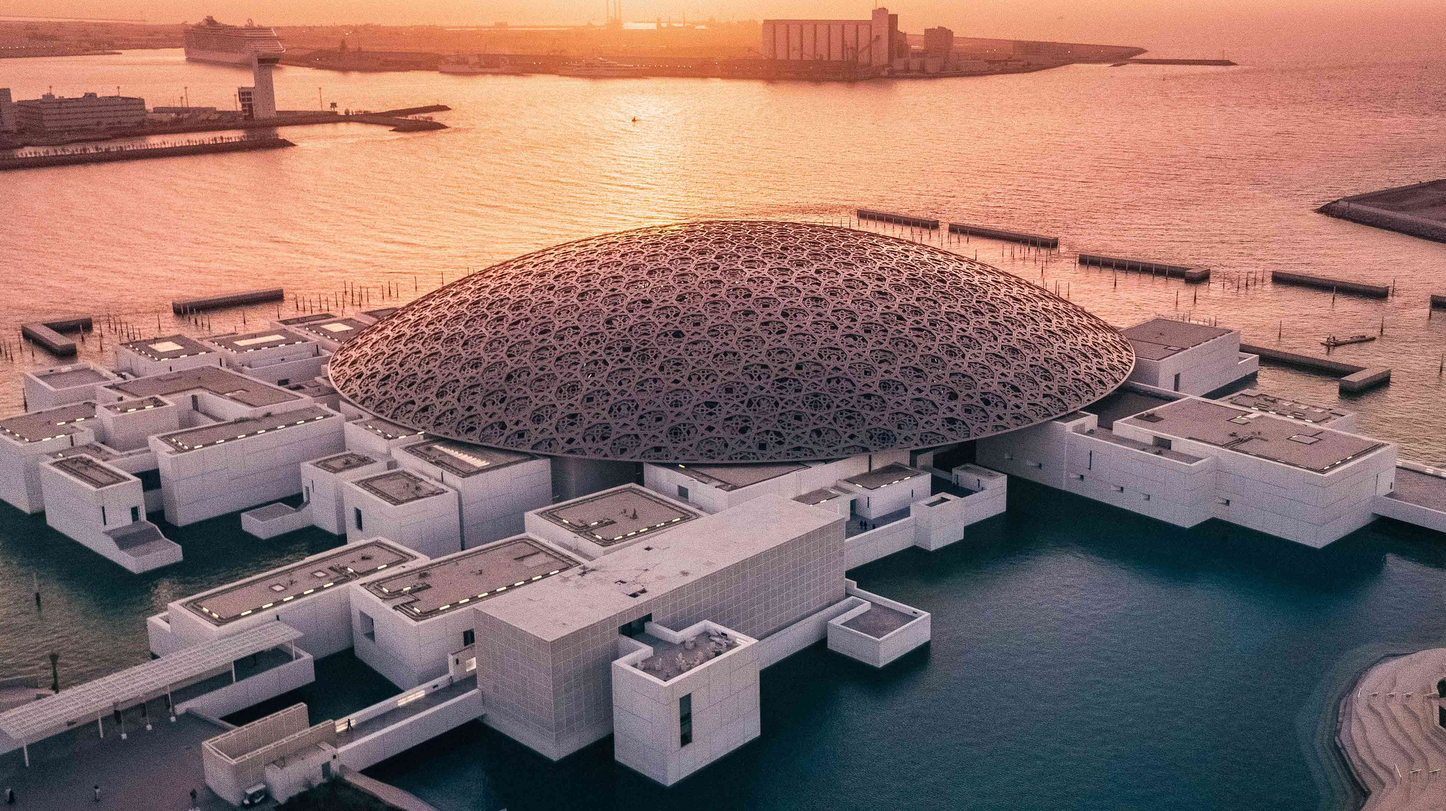
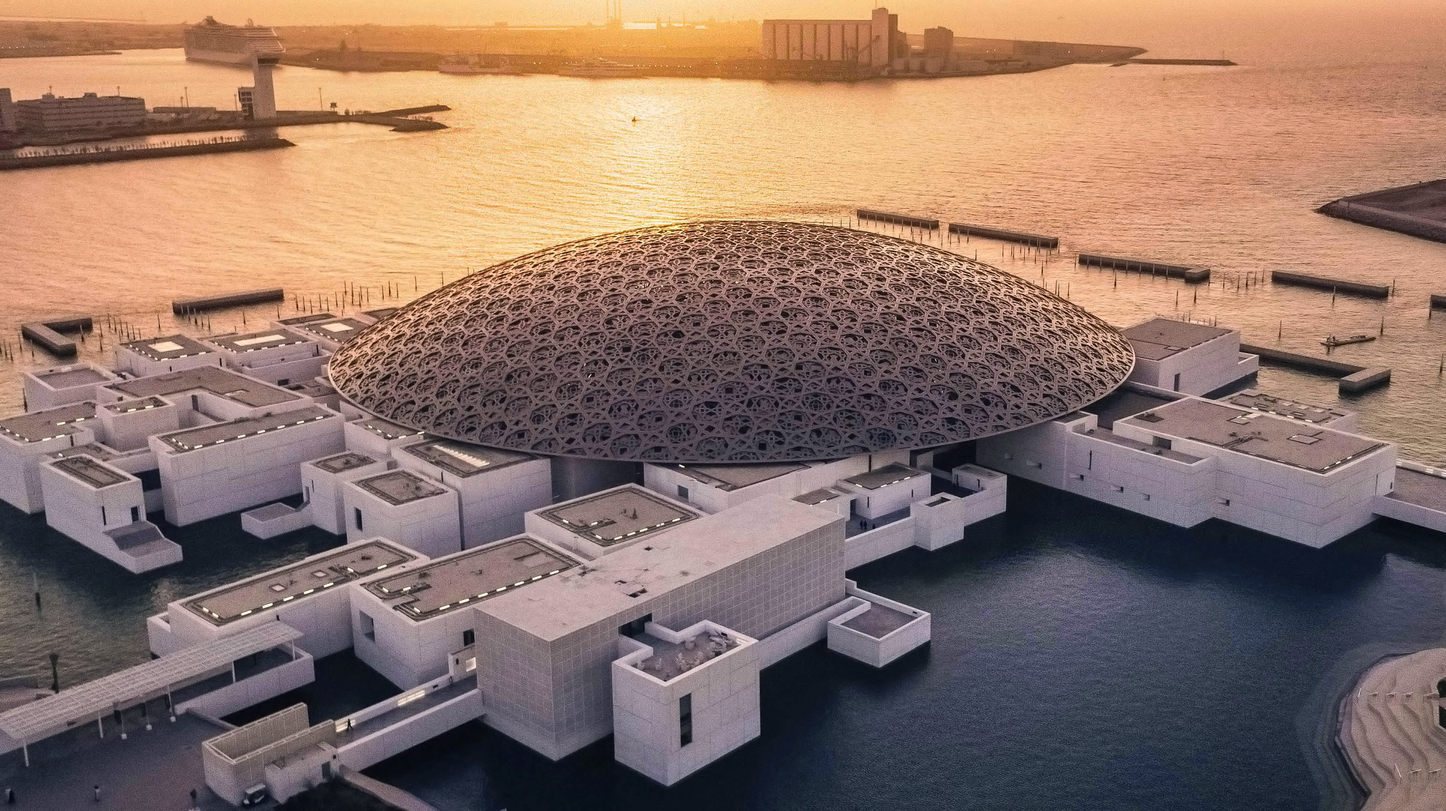
more interactive home, updated about, changed louvre img, added exiting img feature, set no audio for imgs without, changed nyu img, worked on styling

diff --git a/index.html b/index.html
@@ -31,30 +31,47 @@
     <div class="about">
         <div class="about-description">
             <h1> About</h1>
-            <p> For the final project, we aim to create an online interactive experience exploring how Khaleeji heritage
-                is presented across various locations on Saadiyat Island. We will be building a website from scratch
-                that exhibits Khaleeji heritage at the following locations: Manarat Al Saadiyat, Louvre Abu Dhabi, and
-                NYU Abu Dhabi. The goal of this project is to depict the essence of ethnography for users by taking them
-                on a journey that provides them with the chance to see and hear aspects that represent Khaleeji
-                heritage, allowing them to take part in the cultural experience regardless of geographical boundaries.
-                The website’s purpose is not to be a form of a virtual exhibition but to share our own narratives by
+            <p> This is an online interactive experience exploring how Khaleeji heritage is presented across various
+                locations on Saadiyat Island in Abu Dhabi, UAE. This website is built from scratch and it exhibits
+                Khaleeji heritage at the following locations: Manarat Al Saadiyat, Louvre Abu Dhabi, and NYU Abu Dhabi.
+                The goal of this project is to depict the essence of ethnography for users by taking them on a
+                mesmerizing journey that provides them with the chance to see and hear for themselves aspects that
+                represent Khaleeji heritage in its raw form. It allows them to take part in the amazing cultural
+                experience of Khaleeji heritage regardless of geographical boundaries. The website’s purpose is not to
+                be a form of a virtual exhibition of the Khaleeji heritage on its own but to share our own narratives by
                 portraying what we heard and saw. The creation of the website and the works displayed are based on
-                ethnographic research conducted by Alia and Umair and are specific to May-June 2022 as some of the shown
-                aspects were specifically exhibited during this period. </p>
-            <p>The landing page of the website will display a map of Saadiyat Island with the specific locations that
-                could be explored alongside a small introduction and instructions on how to navigate the page. Depending
-                on the users’ choice when clicking on the map, they will be redirected to a page with the respective
-                location and works representing Khaleeji heritage. In Manarat Al Saadiyat, the user would first be
-                presented with a bird view map of the rooms in the “Zemanna Exhibition” that allows for the visual
-                exploration of memories from the 1990s in the UAE based on the artists’ interpretations. The user could
-                then click on the room that they want to explore and would be presented with an image that they could
-                hover over if they choose to listen to the audio of the installation. In Louvre Abu Dhabi, the user
-                would be presented with different artifacts representing the Gulf heritage. They can then click on these
-                artifacts to be shown an overlay image with its respective description. In the NYU Abu Dhabi location,
-                the user would be presented with a carousel view of various videos and pictures taken during class time
-                which cover Khaleeji music and instruments that we have learned. It could also include recorded
-                interviews of the professor, students, or guests that are willing to partake in our Khaleeji Heritage
-                exploration. </p>
+                ethnographic research conducted by Alia Waleed and Umair Shah and are specific to May-June 2022 as some
+                of the shown aspects were specifically exhibited during this period.
+            </p>
+            <p>The motivation for this artwork stems from our own lack of knowledge of the Khaleeji heritage prior to
+                taking this course. Although we are living in the UAE, we were hardly aware of places that represented
+                the Khaleeji heritage. Through the duration of this course, we became acquainted with numerous sources
+                and representations of Khaleeji heritage on Saadiyat Island itself, and so we realized that the
+                treasures of Khaleeji heritage are not as far from us as we assumed them to be rather they are merely
+                under-explored. Driven by the motive to make Khaleeji heritage more accessible and apparent in the
+                cultural paradigm, we created this audio-visual website. The purpose of this website, as stated above,
+                is to make the Khaleeji heritage more accessible to others by sharing our own experiences.
+            </p>
+            <p>
+                Throughout the duration of our course, “Engaging Khaleeji Musical Heritage: An Introduction to Applied
+                Ethnomusicology”, we not only read engaging texts pertinent to ethnography, Khaleeji music, and
+                heritage, but we also had the luxury of visiting esteemed places like the Louvre Abu Dhabi to experience
+                this heritage on our own, leaving room for interpretations as we did not have a tour guide. Therefore,
+                we believe that it would be beneficial if we convey a more holistic and sensory experience to our
+                audience as well. Using an audio-visual approach on the website helps us make the experience of
+                interacting with the Khaleeji heritage more immersive and inspirational as the audience is exposed to
+                multiple stimuli as opposed to only being exposed to one stimulus [for example, as opposed to merely
+                just reading about the heritage].
+
+            </p>
+            <p>
+                As we previously mentioned, the website does not serve as a virtual exhibition rather it is the
+                depiction of the Khaleeji heritage through our lens. All the videos and audio media on the website are
+                taken directly by us and therefore represent our perspective of the Khaleeji heritage experience i.e.
+                what we saw and what we heard. This opens the floor to interpretation as the audience can then
+                experience the heritage through our lens yet form their backgrounds and perspectives of their own.
+
+            </p>
         </div>
     </div>
 

diff --git a/manarat/script.js b/manarat/script.js
@@ -2,32 +2,53 @@ let overlay;
 
 window.addEventListener("load", () => {
     overlay = document.getElementById("overlay");
+
+    document.getElementById('overlay').onclick = function (e) {
+        if (e.target != document.getElementById('card') && e.target != document.getElementById('art-image')) {
+            back();
+        } else {
+            console.log('You clicked inside');
+        }
+    }
 })
 
-function goHome(){
+function goHome() {
     window.location = '/index.html';
 }
 
-function display(piece){
+function display(piece) {
+    console.log(piece);
+    let instructions = document.getElementById("instructions");
+    if (piece == "fwalat" || piece == "volcano") {
+        instructions.textContent = "No audio for this image!";
+    }
+    else {
+        instructions.textContent = "Hover over the image to play audio!";
+    }
     overlay.style.display = "block";
     let image = document.getElementById("art-image");
     image.className = piece;
     image.src = "/manarat/images/" + piece + ".png";
-    console.log(piece);
 }
 
-function back(){
+function back() {
     overlay.style.display = "none";
 }
 
 let audio;
 
-function playAudio(playing){
-    audio = new Audio("/manarat/audios/" + playing + ".mp3"); 
-    audio.play();
+function playAudio(playing) {
+    console.log("here", playing)
+    if (playing == "fwalat" || playing == "volcano") {
+        console.log("no audio");
+    }
+    else {
+        audio = new Audio("/manarat/audios/" + playing + ".mp3");
+        audio.play();
+    }
 }
 
-function stopAudio(playing){
+function stopAudio(playing) {
     console.log("stopped");
     audio.pause();
 }

diff --git a/style.css b/style.css
@@ -16,6 +16,11 @@ body {
     height: 100%;
     position: absolute;
     z-index: 1;
+    filter: grayscale(100%);
+}
+
+.background-container img:hover {
+    filter: none;
 }
 
 .about {
@@ -24,7 +29,7 @@ body {
 
 .about-button {
     position: absolute;
-    top: 90vh;
+    top: 88vh;
     right: 5vw;
     z-index: 5;
     background-color: rgb(151, 121, 68);
@@ -54,7 +59,8 @@ body {
     position: absolute;
 }
 
-.description, .about {
+.description,
+.about {
     left: 50%;
     top: 0;
     position: absolute;
@@ -90,7 +96,8 @@ body {
     padding-top: 5%;
 }
 
-p,li {
+p,
+li {
     color: rgb(151, 121, 68);
     font-size: 1.5vw;
     font-family: 'Josefin Slab';
@@ -119,11 +126,30 @@ p,li {
 
 .button:hover {
     background-color: #aaa28200;
-    border: 2px solid rgb(191 153 87);
+    border: 3px solid rgb(191 153 87);
+    animation-name: stretch;
+    animation-duration: 1.0s;
+    animation-timing-function: ease-out;
+    animation-direction: alternate;
+    animation-iteration-count: infinite;
+    animation-play-state: running;
+}
+
+@keyframes stretch {
+    0% {
+        transform: scale(1.0);
+        border-radius: 100%;
+    }
+    50% {
+        background-color: rgb(191 153 87);
+    }
+    100% {
+        transform: scale(1.2);
+    }
 }
 
 #louvre {
-    top: 61vh;
+    top: 60.6vh;
     left: 2.1vw;
 }
 
@@ -133,6 +159,6 @@ p,li {
 }
 
 #manarat {
-    top: 55vh;
+    top: 55.1vh;
     left: 16.3vw;
 }

diff --git a/louvre/script.js b/louvre/script.js
@@ -1,15 +1,23 @@
- let overlay;
+let overlay;
 
- window.addEventListener("load", () => {
-     overlay = document.getElementById("overlay");
-     overlay.style.display = "none";
- })
+window.addEventListener("load", () => {
+    overlay = document.getElementById("overlay");
+    overlay.style.display = "none";
 
-function goHome(){
+    document.getElementById('overlay').onclick = function (e) {
+        if (e.target != document.getElementById('card') && e.target != document.getElementById('art-image')) {
+            back();
+        } else {
+            console.log('You clicked inside');
+        }
+    }
+})
+
+function goHome() {
     window.location = '/index.html';
 }
 
-function display(piece){
+function display(piece) {
     overlay.style.display = "block";
     let image = document.getElementById("art-image");
     image.className = piece;
@@ -17,7 +25,6 @@ function display(piece){
     console.log(piece);
 }
 
-
-function back(){
+function back() {
     overlay.style.display = "none";
 }

diff --git a/nyu/index.html b/nyu/index.html
@@ -5,6 +5,7 @@
     <meta charset="UTF-8">
     <meta http-equiv="X-UA-Compatible" content="IE=edge">
     <meta name="viewport" content="width=device-width, initial-scale=1.0">
+    <script src="https://code.jquery.com/jquery-3.3.1.min.js"></script>
     <script src="script.js"></script>
     <link rel="stylesheet" href="style.css">
     <title> New York University Abu Dhabi</title>
@@ -17,6 +18,7 @@
     <div id="overlay"></div>
 
     <div class="main">
+        <h2> Gallery </h2>
         <div class="section" id="videos" onclick="viewVideos();">
             <img src="/nyu/images/vid-icon.png" class="icons" id="vid-icon">
             <p class="titles"> Videos</p>

diff --git a/nyu/style.css b/nyu/style.css
@@ -63,13 +63,15 @@ video {
 
 .section {
   position: absolute;
-  background-color: rgba(255, 247, 220, 0.8);
-  border-radius: 3%;
-  width: 20vw;
-  height: 40vh;
+  background-color: #f6f5f3f2;
+  border: 3px solid rgb(151, 121, 68);
+  border-radius: 50%;
+  width: 22vw;
+  height: 44vh;
   z-index: 5;
   top: 30vh;
   cursor: pointer;
+  box-shadow: 0 4px 8px 0 rgba(0, 0, 0, 0.2), 0 6px 20px 0 rgba(0, 0, 0, 0.19);
 }
 
 .section:hover {

diff --git a/manarat/style.css b/manarat/style.css
@@ -103,7 +103,7 @@ h2 {
 }
 
 #outside-in {
-    left: 38.8vw;
+    left: 38.85vw;
     width: 22.1vw;
     height: 16.5vh;
     top: 36.5vh;
@@ -148,7 +148,7 @@ h2 {
 }
 
 #boy:hover {
-    background-color: rgb(18 0 231);
+    background-color: rgb(28, 13, 201);
 }
 
 #girl {
@@ -160,7 +160,7 @@ h2 {
 }
 
 #girl:hover {
-    background-color: #d08cc6;
+    background-color: #e2a5d9;
 }
 
 #overlay {

diff --git a/nyu/script.js b/nyu/script.js
@@ -113,7 +113,6 @@ function backToMain() {
     backMain.style.display = "none";
 }
 
-
 function changeSlide(n) {
     let pause = document.getElementsByClassName("vids")[slideIndex - 1];
     pause.pause();
